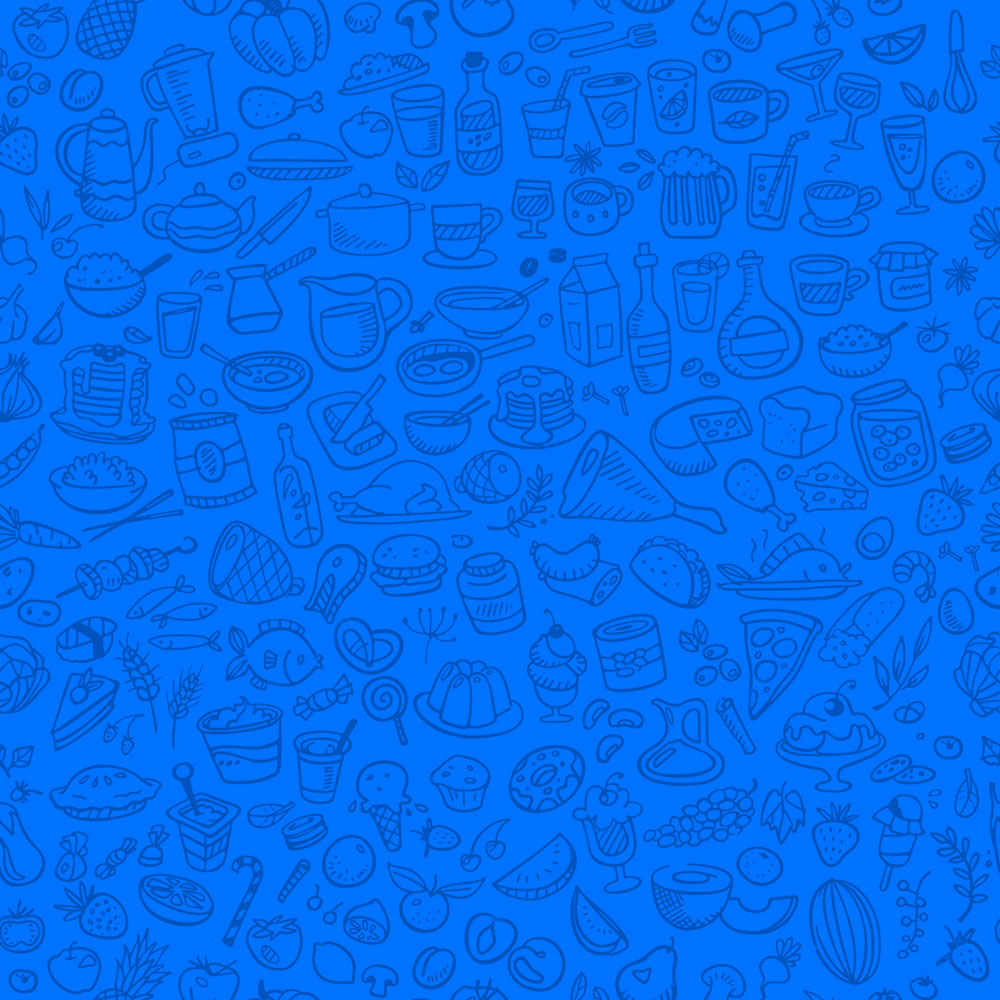
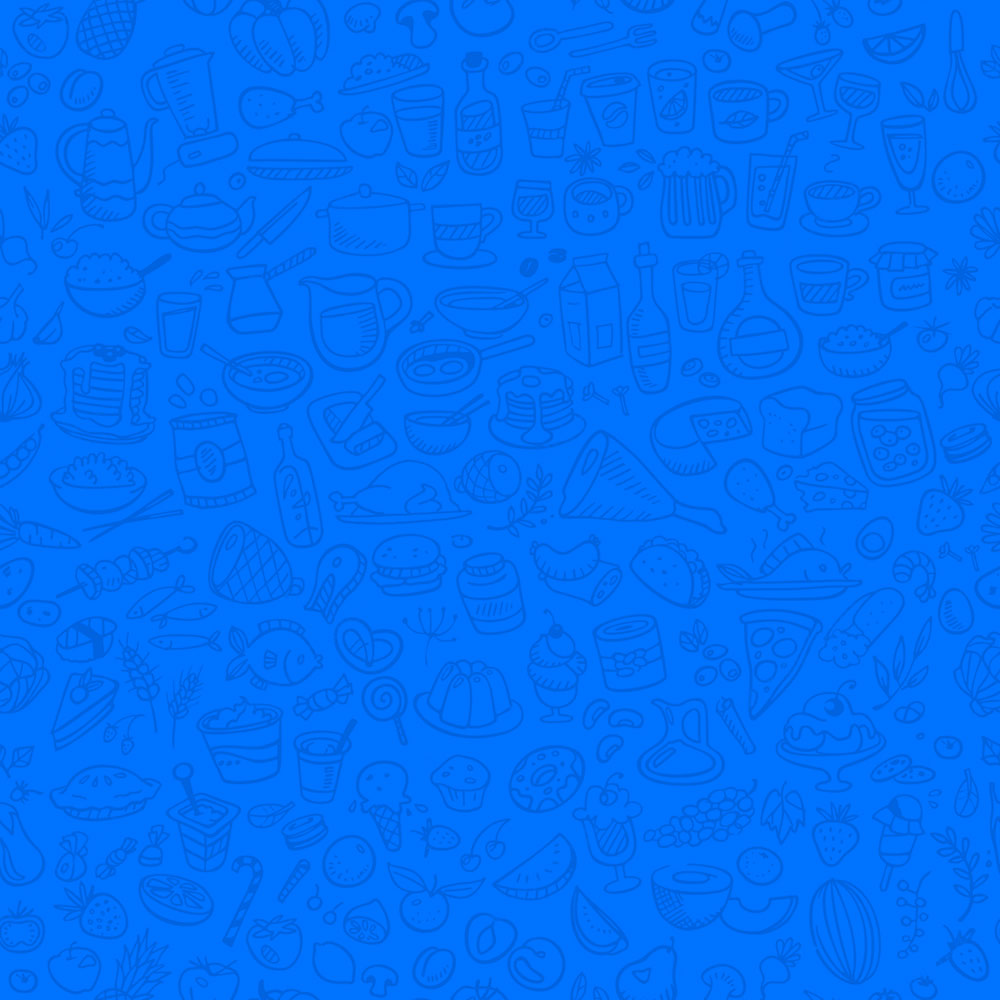
Mise à jour

Changed region(s): [[0.0, 0.0, 1.0, 1.0], [0.806, 0.992, 0.837, 1.0], [0.496, 0.0, 0.527, 0.031]]

diff --git a/src/components/Login.js b/src/components/Login.js
@@ -23,7 +23,7 @@ const Login = props => {
         firebase.loginUser(email, password)
         .then(() => {
             setLoginData({...data});
-            props.history.push("/frigo-manager-react/welcome");
+            props.history.push("/welcome");
         })
         .catch(error => {
             setError(error);
@@ -45,7 +45,7 @@ const Login = props => {
             <form onSubmit={handleSubmit}>
                 <div className="form-group">
                     <label htmlFor="email">Email</label>
-                    <input className="form-control" onChange={handleChange} value={email} type="email" id="email" autoComplete="on" required />
+                    <input className="form-control" onChange={handleChange} value={email} type="email" id="email" autoComplete="off" required />
                 </div>
                 <div className="mb-4">
                     <label htmlFor="password">Mot de passe</label>
@@ -54,10 +54,10 @@ const Login = props => {
                 {btn}
             </form>
             <div className="mt-5">
-                <Link to="/frigo-manager-react/signup">Pas encore de compte ? Inscrivez-vous.</Link>
+                <Link to="/signup">Pas encore de compte ? Inscrivez-vous.</Link>
             </div>
             <div>
-                <Link to="/frigo-manager-react/forgetpassword">Mot de passe oublié ? Récupérez-le.</Link>
+                <Link to="/forgetpassword">Mot de passe oublié ? Récupérez-le.</Link>
             </div>
         </Fragment>
     )

diff --git a/src/components/ForgetPassword.js b/src/components/ForgetPassword.js
@@ -17,7 +17,7 @@ const ForgetPassword = props => {
             setEmail("");
             setError(null);
             setSuccess(`Consultez votre email ${email} pour changer le mot de passe.`);
-            setTimeout(() => props.history.push("/frigo-manager-react/login"), 5000);
+            setTimeout(() => props.history.push("/login"), 5000);
         })
         .catch(error => {
             setEmail("");
@@ -37,12 +37,12 @@ const ForgetPassword = props => {
             <form onSubmit={handleSubmit}>
                 <div className="mb-4">
                     <label htmlFor="email">Email</label>
-                    <input className="form-control" onChange={e => setEmail(e.target.value)} value={email} type="email" id="email" autoComplete="on" required />
+                    <input className="form-control" onChange={e => setEmail(e.target.value)} value={email} type="email" id="email" autoComplete="off" required />
                 </div>
                 <button type="submit" className="btn btn-primary" disabled={disabled}>Récupérer</button>
             </form>
             <div className="mt-5">
-                <Link to="/frigo-manager-react/login">Déjà inscrit ? Connectez-vous.</Link>
+                <Link to="/login">Déjà inscrit ? Connectez-vous.</Link>
             </div>
         </div>
     )

diff --git a/src/components/App.js b/src/components/App.js
@@ -19,11 +19,11 @@ const App = () => {
                 <div className="col">
                   <Router>
                     <Switch>
-                      <Route exact path="/frigo-manager-react/" component={Landing} />
-                      <Route path="/frigo-manager-react/welcome" component={Welcome} />
-                      <Route path="/frigo-manager-react/login" component={Login} />
-                      <Route path="/frigo-manager-react/signup" component={Signup} />
-                      <Route path="/frigo-manager-react/forgetpassword" component={ForgetPassword} />
+                      <Route exact path="/" component={Landing} />
+                      <Route path="/welcome" component={Welcome} />
+                      <Route path="/login" component={Login} />
+                      <Route path="/signup" component={Signup} />
+                      <Route path="/forgetpassword" component={ForgetPassword} />
                       <Route component={ErrorPage} />          
                     </Switch>
                   </Router>        

diff --git a/src/styles.scss b/src/styles.scss
@@ -4,7 +4,7 @@ $body-bg: #f8f9fa;
 $font-size-base: 1rem;
 $h1-font-size: $font-size-base * 1.75;
 $h2-font-size: $font-size-base * 1.75;
-$list-group-item-padding-x: 0.25rem;
+$list-group-item-padding-x: 0.5rem;
 $paragraph-margin-bottom: 0;
 $headings-margin-bottom: 0;
 
@@ -193,13 +193,13 @@ html {
   background-color: $primary;
   background-image: url(./images/entete.jpg);
   background-repeat: repeat;
-  background-size: 30%;
+  background-size: calc(100% / 4); // Diviser par un nombre divisible par 4 pour un loop bien raccordé
   animation: defilement 120s linear infinite;
 }
 
-@include media-breakpoint-up(sm) {
+@include media-breakpoint-up(lg) {
   .bg-entete {
-    background-size: 13%;
+    background-size: calc(100% / 8);
   }
 }
 
@@ -217,7 +217,7 @@ html {
   padding-bottom: 1.5rem !important;
 }
 
-@include media-breakpoint-up(sm) {
+@include media-breakpoint-up(md) {
   .py-5-responsive {
     padding-top: 3rem !important;
     padding-bottom: 3rem !important;

diff --git a/src/components/Landing.js b/src/components/Landing.js
@@ -5,15 +5,15 @@ const Landing = () => {
     return (
         <Fragment>
             <div className="text-center mb-3">
-                <Link to="/frigo-manager-react/login">
+                <Link to="/login">
                     <button type="button" className="btn btn-primary">
                         Connexion
                     </button>
                 </Link>
             </div>
             <div className="text-center">
-                <Link to="/frigo-manager-react/signup">
-                    <button type="button" className="btn btn-light">
+                <Link to="/signup">
+                    <button type="button" className="btn btn-outline-secondary">
                         Inscription
                     </button>
                 </Link>

diff --git a/src/components/FormProduct.js b/src/components/FormProduct.js
@@ -53,7 +53,7 @@ const FormProduct = ({id, name, date, recipe, opened, addProduct, modifyProduct,
                     <label htmlFor="recipe">Recette</label>
                     <input className="form-control" onChange={handleChange} value={currentRecipe} type="text" id="recipe" autoComplete="off" maxLength="20" placeholder="Nom de la recette" />
                 </div>
-                <div className="mb-5">
+                <div className="mb-4">
                     <p style={{display: "inline-block", marginBottom: ".5rem"}}>Entamé</p>
                     <div className="d-flex justify-content-start">
                         <div className="mr-4">

diff --git a/src/components/Signup.js b/src/components/Signup.js
@@ -33,7 +33,7 @@ const Signup = props => {
         })
         .then(() => {
             setLoginData({...data});
-            props.history.push("/frigo-manager-react/welcome");
+            props.history.push("/welcome");
         })
         .catch(error => {
             setError(error);
@@ -72,7 +72,7 @@ const Signup = props => {
                 {btn}
             </form>
             <div className="mt-5">
-                <Link to="/frigo-manager-react/login">Déjà inscrit ? Connectez-vous.</Link>
+                <Link to="/login">Déjà inscrit ? Connectez-vous.</Link>
             </div>
         </Fragment>
     )

diff --git a/src/components/Welcome.js b/src/components/Welcome.js
@@ -38,7 +38,7 @@ const Welcome = props => {
     const {name, date, recipe, opened} = formValues;
 
     useEffect(() => {
-        let listener = firebase.auth.onAuthStateChanged(user => user ? setUserSession(user) : props.history.push("/frigo-manager-react/"));
+        let listener = firebase.auth.onAuthStateChanged(user => user ? setUserSession(user) : props.history.push("/"));
         if (userSession) {
             firebase.user(userSession.uid)
             .get()

diff --git a/src/components/Header.js b/src/components/Header.js
@@ -5,7 +5,7 @@ const Header = () => {
         <header className="entete">
             <div className="bg-entete"></div>
             <h1 className="font-weight-light text-uppercase text-center">
-                    <a className="text-light" href="/frigo-manager-react/">Frigo Manager</a>
+                    <a className="text-light" href="/welcome">Frigo Manager</a>
             </h1>
         </header>
     )

diff --git a/public/index.html b/public/index.html
@@ -2,7 +2,7 @@
 <html lang="fr">
   <head>
     <meta charset="utf-8" />
-    <link rel="icon" href="%PUBLIC_URL%/favicon.ico" />
+    <link rel="icon" href="%PUBLIC_URL%/favicon.png" />
     <meta name="viewport" content="width=device-width, initial-scale=1" />
     <meta name="theme-color" content="#000000" />
     <meta
